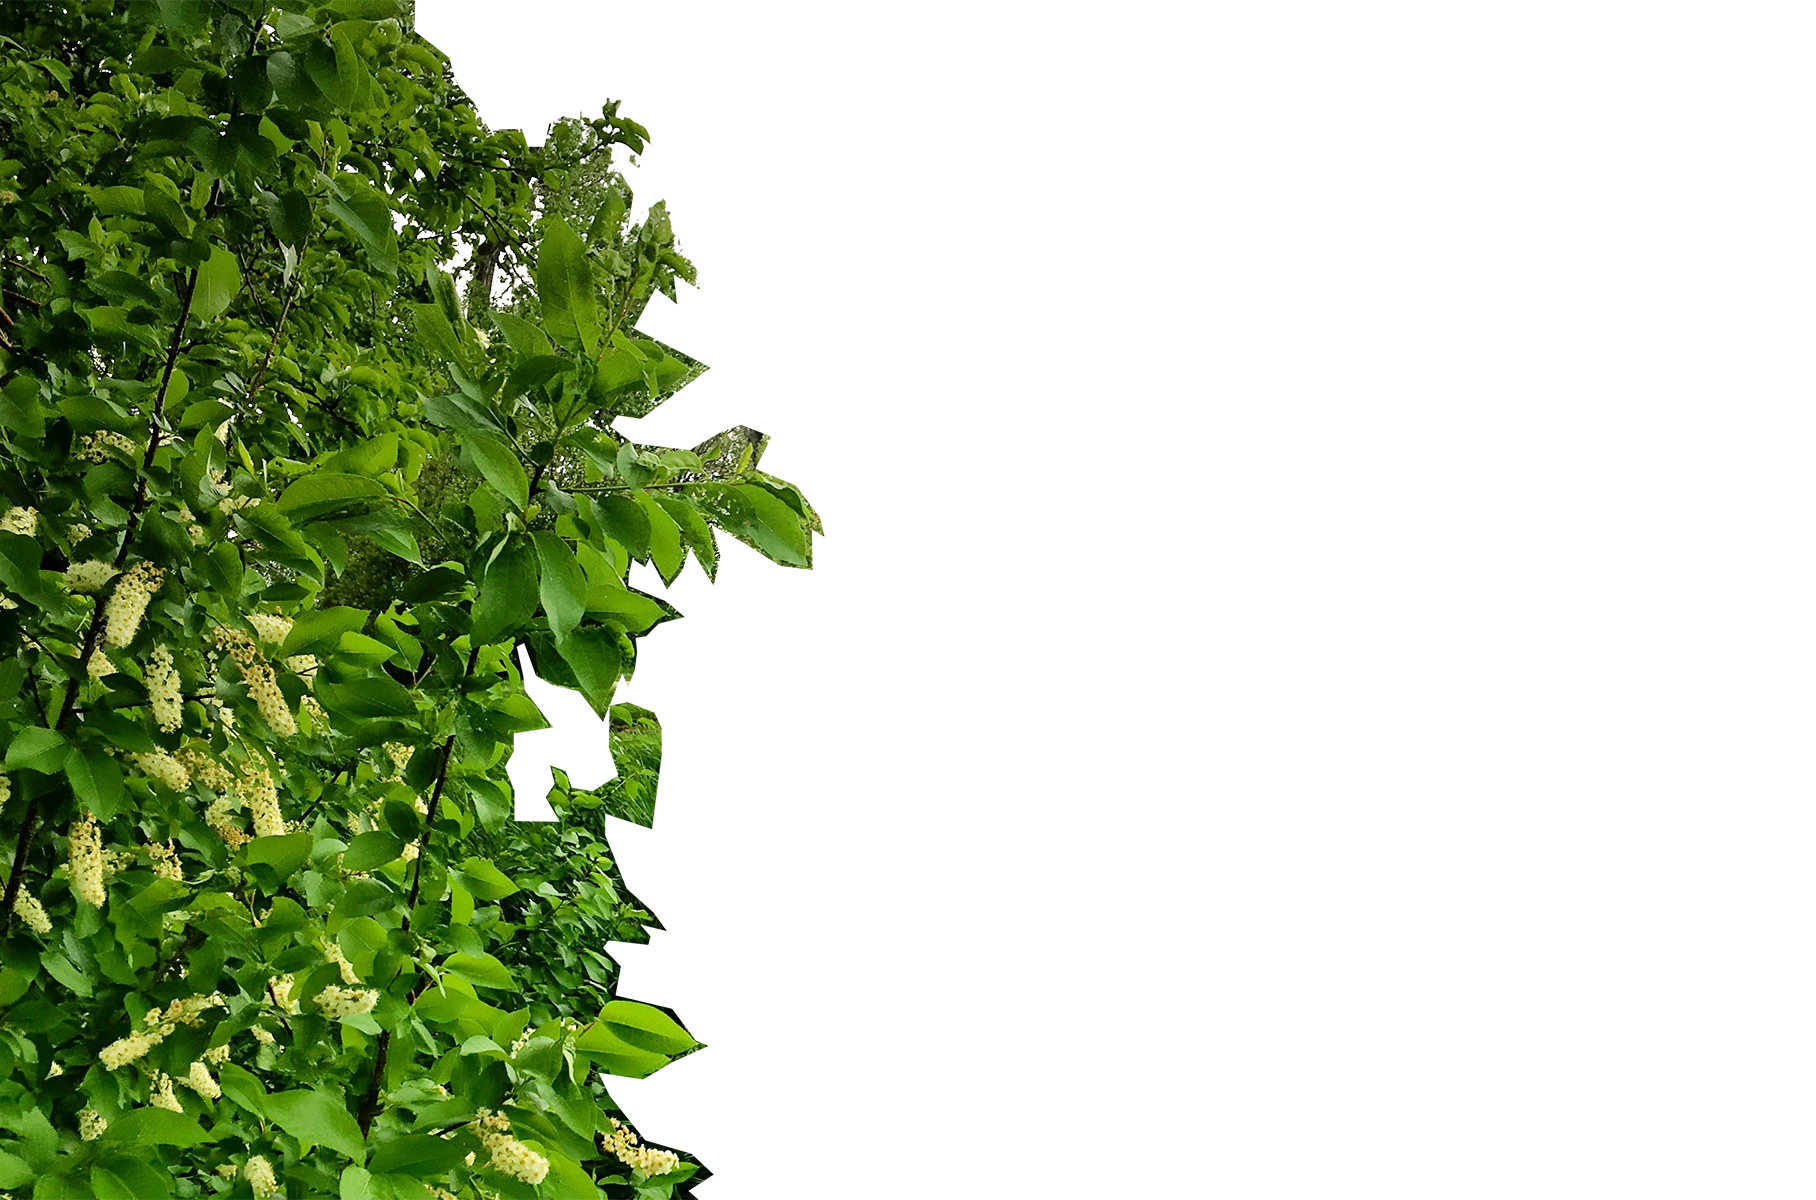
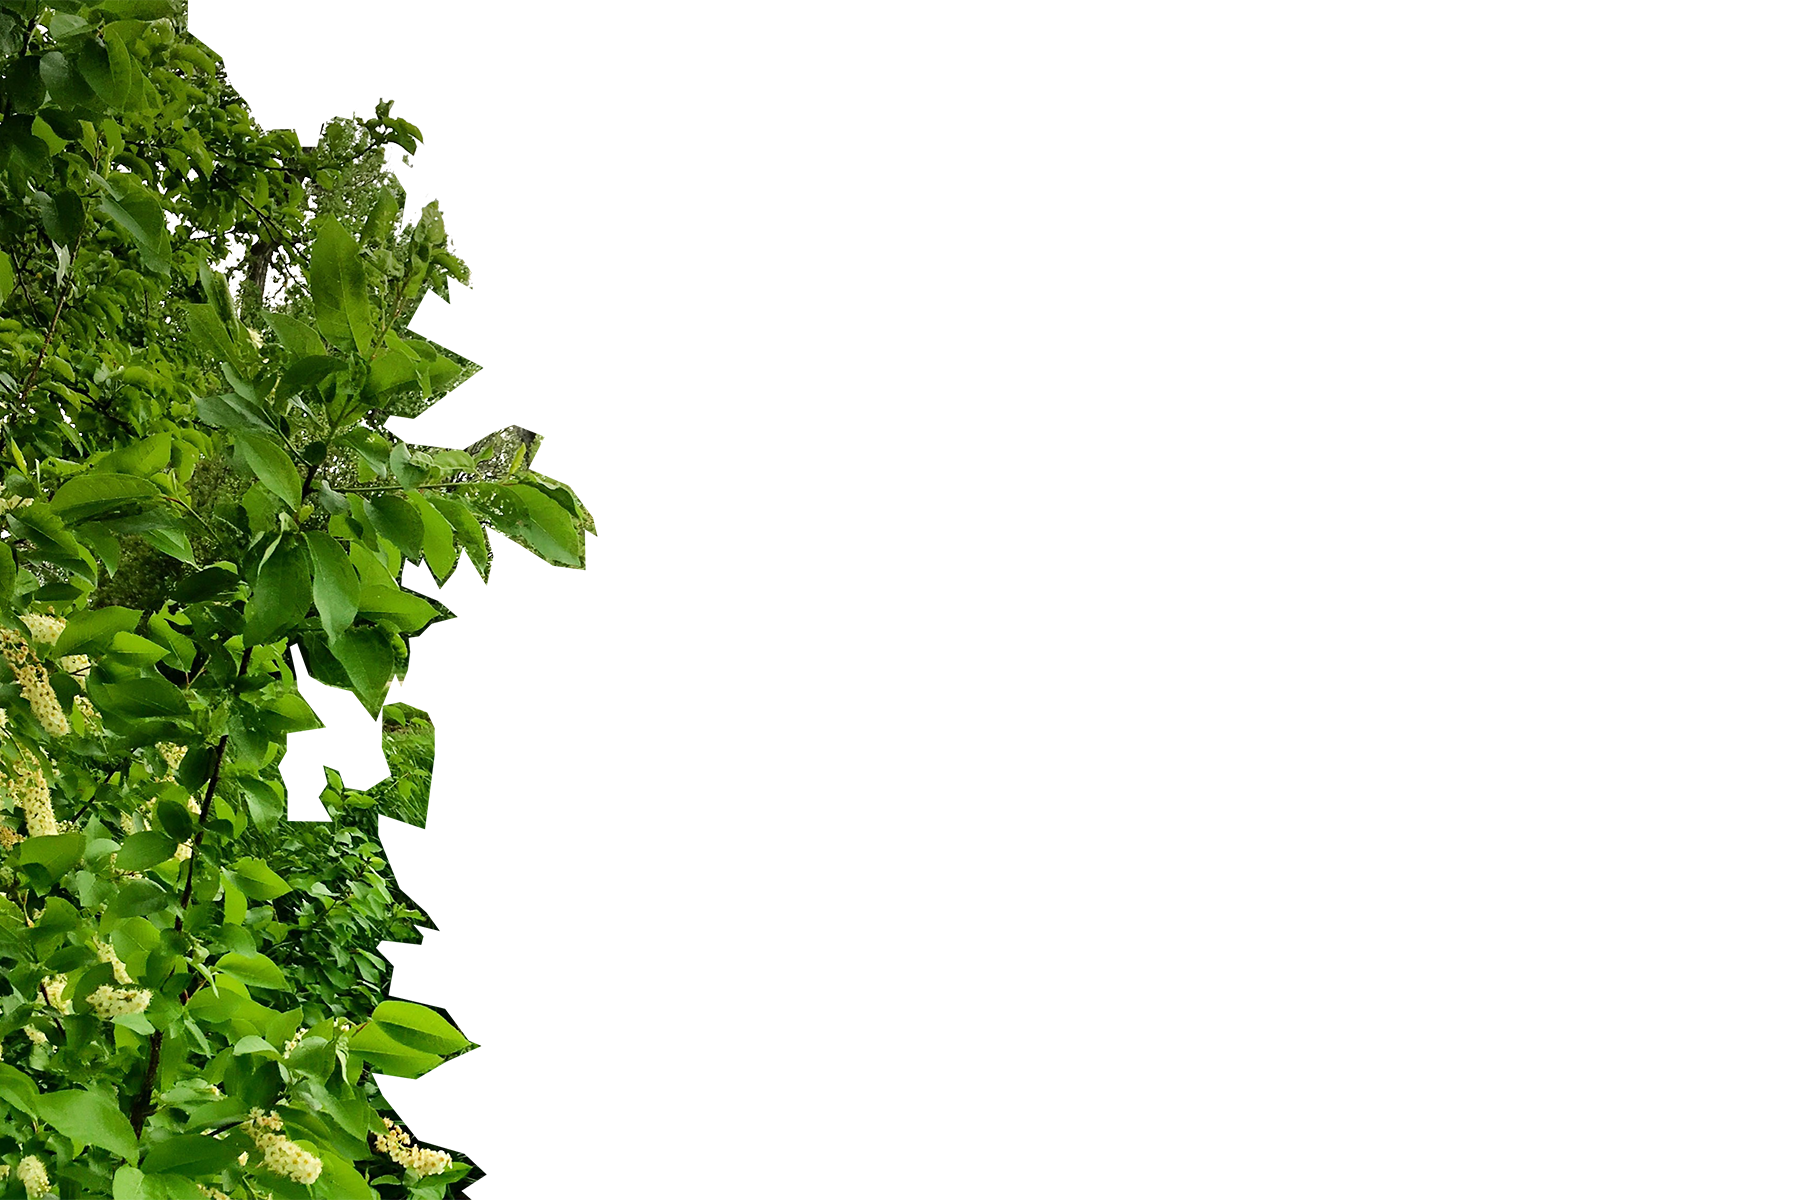
parallax hero

diff --git a/style.css b/style.css
@@ -5,10 +5,12 @@
   --text-light: #ABABAB; /* light grey */
 }
 
-body, header, h1, h2, h3, h4, p, div, section, ul, li, img {
+body, header, nav, h1, h2, h3, h4, p, div, section, ul, li, img, main, footer {
   margin: 0;
   padding: 0;
 }
+
+
 
 body {
   font-family: nunito, arial;
@@ -70,16 +72,30 @@ header {
 /* -------------------------- end header --------------------------  */
 
 /* -------------------------- start prallax --------------------------  */
+body{
+  position: relative;
+}
+
 .keyart_layer{
-  background-position: center;
+  background-position: top;
   background-size: cover; /* first value: width of the image, second value: height */
-  background-repeat: repeat-x;
+  /* background-repeat: repeat-x; */
   width: 100%;
   position: absolute;
 }
 
-.keyart, .keyart_layer{
-  height: 100vh;
+#parallax{
+  display: block;
+}
+
+.keyart{
+  position: relative;
+  z-index: 10;
+  height: 90vh;
+}
+
+.keyart_layer{
+  height: 130vh;
 }
 
 #keyart-1{
@@ -105,6 +121,20 @@ header {
 #keyart-6{
   background-image: url('img/hero-06.png')
 }
+
+.cover{
+  z-index: 99;
+  position: relative;
+  background-color: var(--main);
+  height: 300px;
+  top: -100;
+}
+
+main{
+  background-color: white;
+  position: relative;
+  z-index: 98;
+}
 /* -------------------------- end parallax --------------------------  */
 
 /* -------------------------- start fixed nav --------------------------  */
@@ -114,9 +144,11 @@ nav {
   width: 350px;
   top: 80px;
   right: 0;
+  /* z-index: 60; */
   /* overflow-y: scroll;
   display: block;
   height: 80vh; */
+
 }
 
 nav li a{
@@ -152,18 +184,19 @@ nav li {
 /* ------------------- end fixed nav------------------  */
 
 
-main {
+/* main {
   width: 900px;
   margin: auto;
   margin-bottom: 5em;
-}
+} */
 
 .content {
   width: 600px;
+  margin: auto;
 }
 
 .content h2{
-  margin-top: 2em;
+  padding-top: 2em;
 }
 
 .content h4{

diff --git a/index.html b/index.html
@@ -54,11 +54,15 @@
     <div id="parallax" class="keyart">
       <div id="keyart-1" class="keyart_layer parallax" data-speed="2"></div>
       <div id="keyart-2" class="keyart_layer parallax" data-speed="5"></div>
-      <div id="keyart-3" class="keyart_layer parallax" data-speed="21"></div>
+      <div id="keyart-3" class="keyart_layer parallax" data-speed="11"></div>
       <div id="keyart-4" class="keyart_layer parallax" data-speed="26"></div>
       <div id="keyart-5" class="keyart_layer parallax" data-speed="36"></div>
       <div id="keyart-6" class="keyart_layer parallax" data-speed="56"></div>
     </div>
+
+    <!-- <div class="cover">
+
+    </div> -->
     <main>
 
       <div class="content">
